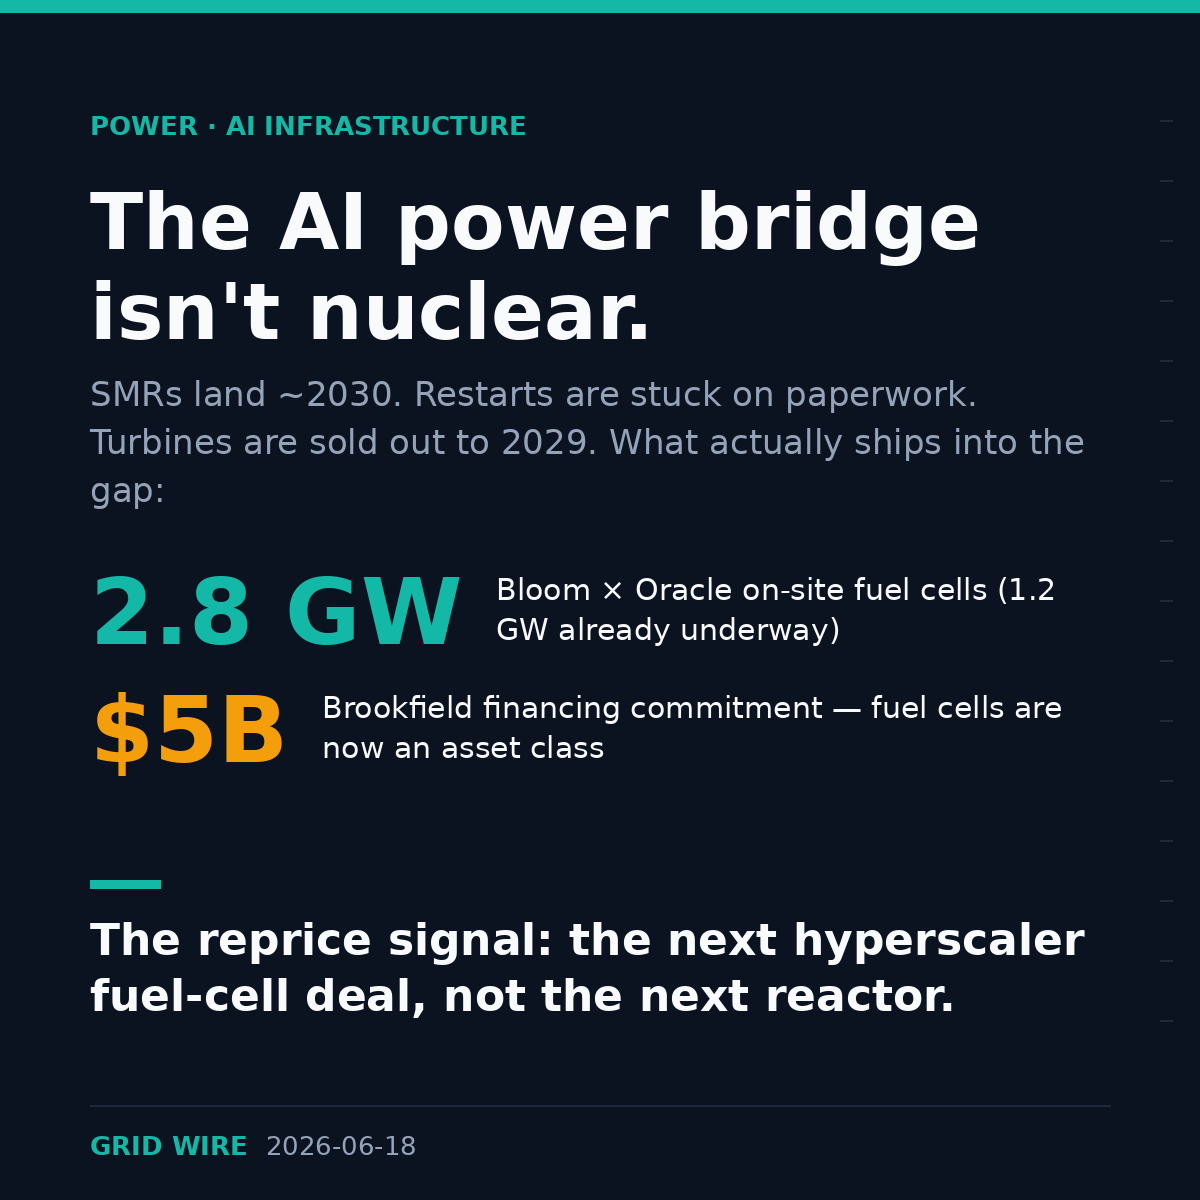
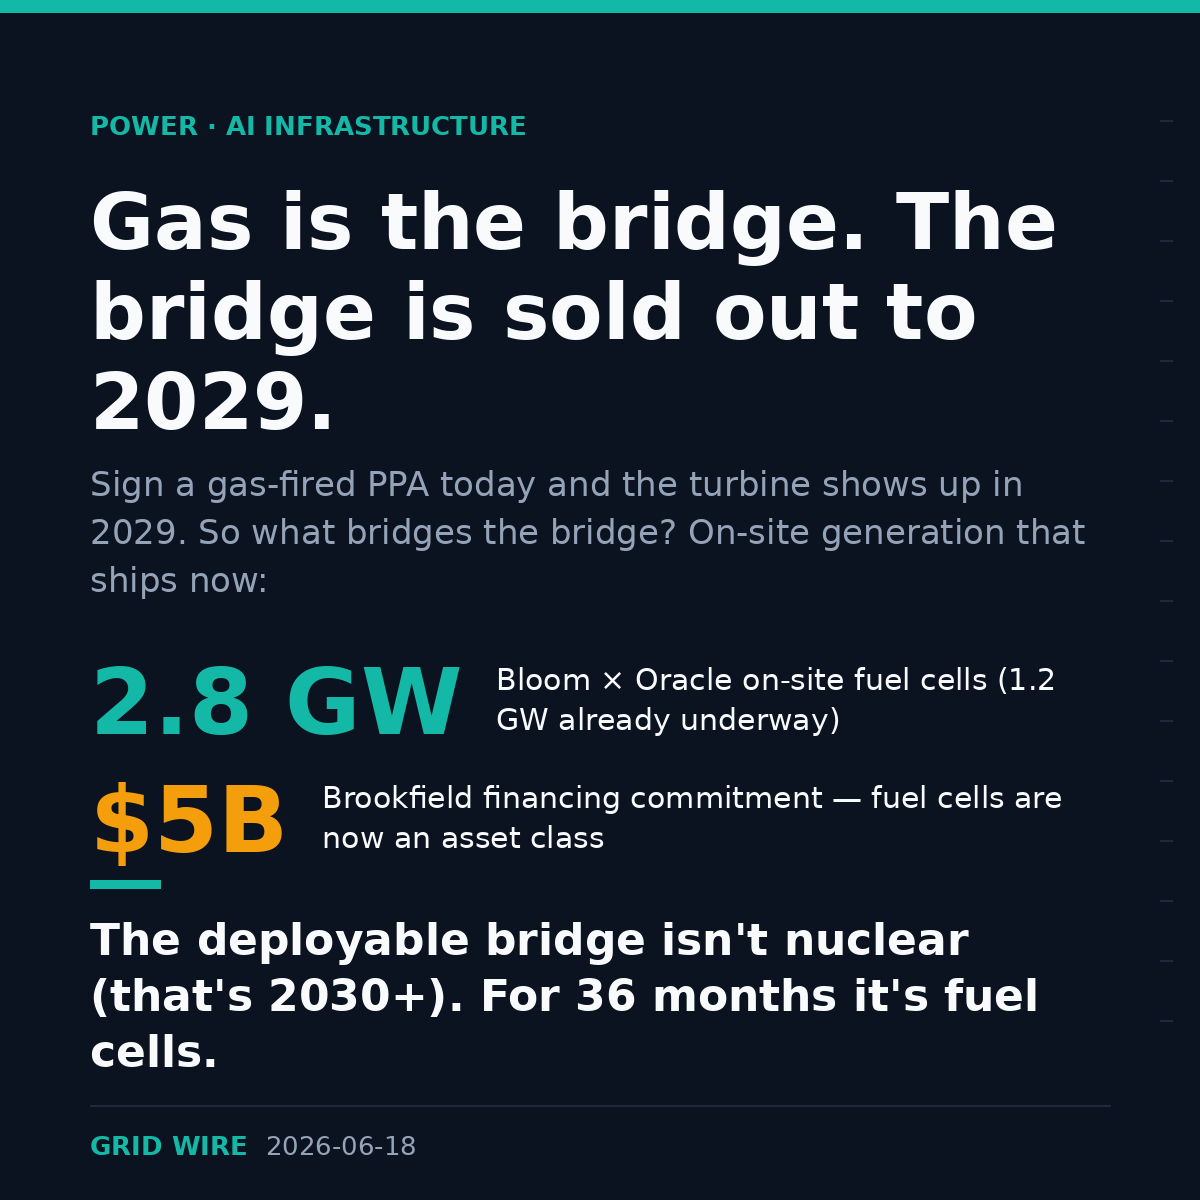
Reframe LinkedIn post 1: gas (not nuclear) is the bridge
Recast item-2 post and card around the sold-out gas bridge with fuel cells as
the deployable near-term fill; nuclear positioned as the 2030+ long-term answer.

Claude-Session: https://claude.ai/code/session_01GBEi1AkBD3bXo8frjmaYVK

Changed region(s): [[0.0617, 0.1542, 0.8942, 0.7092], [0.0617, 0.7708, 0.8942, 0.8942]]

diff --git a/scripts/make_li_cards.py b/scripts/make_li_cards.py
@@ -102,15 +102,15 @@ def card(path, kicker, claim, support, stats, footer, punch, accent=TEAL):
 card(
     "outputs/reports/li-fuelcells-2026-06-18.png",
     "POWER · AI INFRASTRUCTURE",
-    "The AI power bridge isn't nuclear.",
-    "SMRs land ~2030. Restarts are stuck on paperwork. Turbines are sold out "
-    "to 2029. What actually ships into the gap:",
+    "Gas is the bridge. The bridge is sold out to 2029.",
+    "Sign a gas-fired PPA today and the turbine shows up in 2029. So what bridges "
+    "the bridge? On-site generation that ships now:",
     [
         ("2.8 GW", "Bloom × Oracle on-site fuel cells (1.2 GW already underway)", TEAL),
         ("$5B", "Brookfield financing commitment — fuel cells are now an asset class", AMBER),
     ],
     "2026-06-18",
-    "The reprice signal: the next hyperscaler fuel-cell deal, not the next reactor.",
+    "The deployable bridge isn't nuclear (that's 2030+). For 36 months it's fuel cells.",
     accent=TEAL,
 )
 

diff --git a/outputs/reports/li-posts-2026-06-18.md b/outputs/reports/li-posts-2026-06-18.md
@@ -7,22 +7,22 @@ markdown); pair each with its PNG card. Both within LinkedIn's 3,000-char limit.
 
 ## Post 1 — Fuel cells (item 2) · pair with li-fuelcells-2026-06-18.png
 
-The AI power bridge isn't nuclear. It's fuel cells.
+Gas is the bridge to nuclear. The bridge is sold out until 2029.
 
-The consensus story is a nuclear renaissance powering the AI buildout. Read the calendar and that story falls apart for the only window that matters — 2026 to 2029.
+The consensus has the shape right: nuclear is the long-term baseload answer for AI, and gas is the bridge that carries demand until the reactors arrive. The part nobody is pricing is that the bridge itself is supply-constrained.
 
-Every nuclear path is dated past the gap:
-• Oklo's ~15 GW book and the Kairos–Google–TVA PPA don't deliver until ~2030.
-• The restarts are stuck on paperwork, not physics — Holtec told the NRC it "cannot find the CMTR data" for three welds at Palisades; Crane (TMI-1) earns no full PJM capacity credit until 2027.
-• Gas turbines are sold out — GE Vernova has roughly 10 GW of capacity left across 2029 and 2030 combined, with new bids pricing 10–20 points higher on $/kW. Siemens is booked through 2028.
+You can sign a gas-fired PPA today and not get the machine for years:
+• GE Vernova has roughly 10 GW of turbine capacity left across 2029 and 2030 combined, with new bids pricing 10–20 points higher on $/kW.
+• Siemens Energy is booked through 2028.
+• Lead times are running at three years and stretching.
 
-So what actually ships into the hole? On-site generation. And the capital just voted:
+So if gas is the bridge and the bridge is sold out, what bridges the bridge? On-site generation that ships now — and the capital just voted:
 • Bloom and Oracle signed a master agreement for up to 2.8 GW of solid-oxide fuel cells, with 1.2 GW already underway.
 • Brookfield committed up to $5B to finance Bloom deployments — turning on-site fuel cells from a science project into a financeable asset class.
 
 Policy is bending the same way. Senator Cotton's DATA Act would create an off-grid "consumer-regulated electric utility" category — a clean statutory lane for behind-the-fence load — exactly as FERC (PJM co-location) and Texas SB6 raise the cost of leaning on the grid.
 
-The contrarian read: the bridge-power equity story migrates to fuel cells and reciprocating engines for the next 36 months, not reactors. The reprice signal won't be a groundbreaking. It will be the second and third hyperscaler fuel-cell master agreement — and the first fuel-cell ABS or project-finance print. That is the moment the market stops calling it a pilot and starts pricing it as infrastructure.
+The contrarian read: for the next 36 months the deployable bridge isn't a gas turbine you can't take delivery of, and it isn't nuclear that doesn't arrive until 2030+. It's fuel cells and reciprocating engines. The reprice signal won't be a groundbreaking — it'll be the second and third hyperscaler fuel-cell master agreement, and the first fuel-cell ABS or project-finance print. That's when the market stops calling it a pilot and starts pricing it as infrastructure.
 
 Watch the deals, not the ribbon-cuttings.
 
